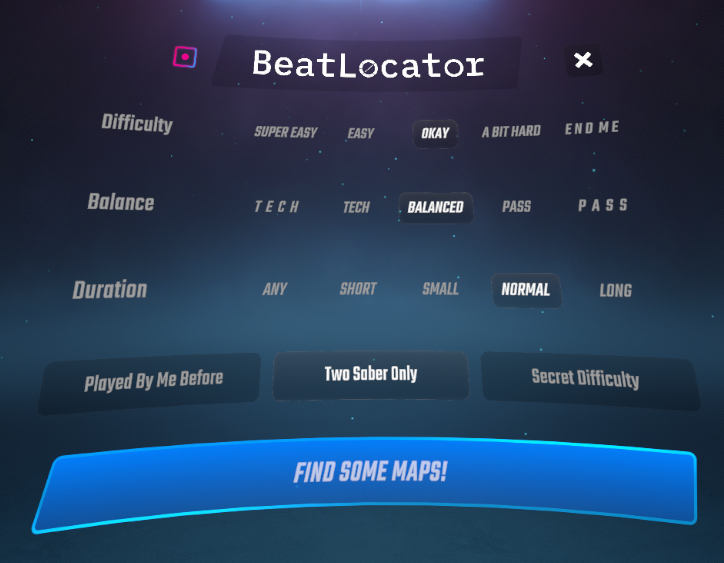
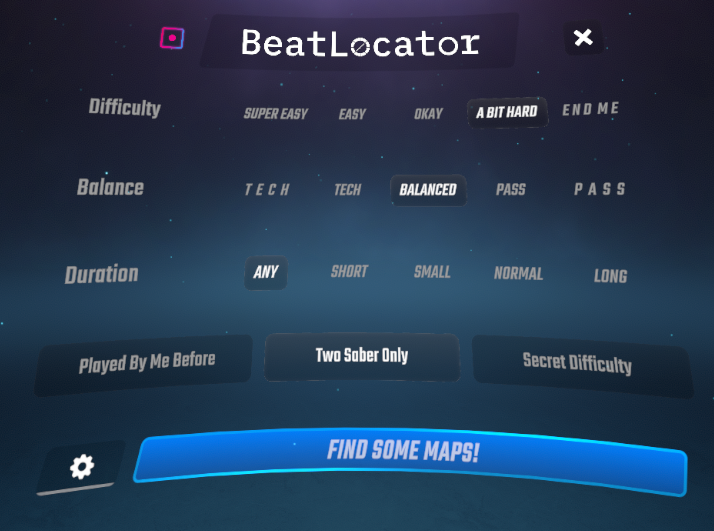
Prepare v0.1.1 release documentation and metadata

diff --git a/BeatLocator/Menu/Roulette/RouletteAnimationViewController.cs b/BeatLocator/Menu/Roulette/RouletteAnimationViewController.cs
@@ -853,7 +853,7 @@ public sealed class RouletteAnimationViewController : BSMLAutomaticViewControlle
     {
         using var downloadHandler = new DownloadHandlerTexture();
         using var request = UnityWebRequest.Get(coverUrl);
-        request.SetRequestHeader("User-Agent", "BeatLocator/0.1.0");
+        request.SetRequestHeader("User-Agent", Plugin.UserAgent);
         request.timeout = CoverRequestTimeoutSeconds;
         request.downloadHandler = downloadHandler;
         request.disposeDownloadHandlerOnDispose = false;
@@ -1395,7 +1395,7 @@ public sealed class RouletteAnimationViewController : BSMLAutomaticViewControlle
                          ?? throw new InvalidOperationException(
                              "The ranking service did not provide a valid map hash for preview playback.");
         using var request = UnityWebRequestMultimedia.GetAudioClip(previewUrl, AudioType.MPEG);
-        request.SetRequestHeader("User-Agent", "BeatLocator/0.1.0");
+        request.SetRequestHeader("User-Agent", Plugin.UserAgent);
         var operation = request.SendWebRequest();
 
         while (!operation.isDone)

diff --git a/BeatLocator/WebUtils/SSWebUtil.cs b/BeatLocator/WebUtils/SSWebUtil.cs
@@ -1030,7 +1030,7 @@ internal static class SSWebUtil
     private static HttpClient CreateHttpClient()
     {
         var client = new HttpClient();
-        client.DefaultRequestHeaders.TryAddWithoutValidation("User-Agent", "BeatLocator/0.1.0");
+        client.DefaultRequestHeaders.TryAddWithoutValidation("User-Agent", Plugin.UserAgent);
         client.DefaultRequestHeaders.TryAddWithoutValidation("Accept", "application/json");
         return client;
     }

diff --git a/BeatLocator/Plugin.cs b/BeatLocator/Plugin.cs
@@ -19,6 +19,8 @@ internal class Plugin
     private const string HarmonyId = "com.kalbuus.beatlocator";
 
     internal static IpaLogger Log { get; private set; } = null!;
+    internal static string UserAgent { get; } =
+        $"BeatLocator/{typeof(Plugin).Assembly.GetName().Version.ToString(3)}";
 
     // Methods with [Init] are called when the plugin is first loaded by IPA.
     // All the parameters are provided by IPA and are optional.

diff --git a/algorithm.md b/algorithm.md
@@ -1,6 +1,6 @@
 # BeatLocator Recommendation Algorithm
 
-This document describes how BeatLocator currently turns a player's ranked score history into a single map and difficulty recommendation. It covers the recommendation engine only. Map download, launch, roulette presentation, and post-level PP tracking are separate systems.
+This document describes how BeatLocator v0.1.1 turns a player's ranked score history into a single map and difficulty recommendation. It covers BeatLeader and ScoreSaber. Map download, launch, roulette presentation, and post-level PP tracking are separate systems.
 
 The shared implementation lives in
 [`RecommendationEngine`](BeatLocator/EvaluationManagers/RecommendationEngine.cs).
@@ -17,7 +17,7 @@ For each ranking provider, BeatLocator:
 1. Loads bounded recent and top ranked results, with a short provider cache.
 2. Builds a player-specific relationship between map stars and achieved accuracy.
 3. Converts that model into five difficulty targets.
-4. Requests ranked candidates around the selected target.
+4. Requests ranked candidates around the selected target, or samples a challenge catalogue for BeatLeader `END ME`.
 5. Applies provider and user filters.
 6. Scores every eligible map difficulty.
 7. Selects one difficulty using weighted random selection.
@@ -30,10 +30,7 @@ it does not perform another random selection.
 
 The pure estimator lives in
 [`PlayerSkillEstimator`](BeatLocator/EvaluationManagers/PlayerSkillEstimator.cs).
-Its formulas, normalization rules, live updates and runtime checks are detailed in
-[`stable-skill-recommendations.md`](docs/stable-skill-recommendations.md).
-
-BeatLeader loads 100 recent and 100 top-PP ranked scores, deduplicated by score ID.
+BeatLeader loads up to 100 recent and 100 top-PP ranked scores, deduplicated by score ID.
 ScoreSaber scans up to three recent pages and, when more history exists, up to
 three top pages, retaining ranked CLEAR results. Original score timestamps are
 preserved. Provider caches expire after two minutes and are isolated by player.
@@ -43,54 +40,94 @@ from `difficulty.modifiersRating`, together with raw accuracy. Unsupported modif
 and missing speed ratings are excluded. Candidates also account for the active
 BeatLeader speed setting, using actual API ratings for local eligibility checks.
 
-Recency weights multiply decay in elapsed days and number of newer observations:
+### History and accuracy normalization
+
+The estimator retains up to 240 timestamped observations, ordered newest first.
+Failed attempts, unsupported modifiers and invalid ratings or accuracy values
+are excluded. A play must have a usable star rating and accuracy above zero and
+at most one. Speed-modified results require the corresponding actual ratings;
+the model does not approximate them using a PP multiplier.
+
+Recency weights multiply decay in elapsed days behind the newest observation
+and number of newer observations:
 
 ```text
 weight = 0.5 ^ (daysBehindNewest / 45) * 0.5 ^ (sortedIndex / 60)
 ```
 
-Weights below 0.001 are discarded. A bounded, regularized negative accuracy
-slope translates each play into capability at a player-specific reference accuracy (80-90%).
-Sparse, flat or positive-slope profiles use a conservative fallback slope, so
-one valid ranked result is sufficient. Ordinary difficulty uses a weighted history
-mean, allowing at most 0.75 stars of positive accuracy reserve per result. Hard
-challenges and component budgets use up to 60 comparable results. Fitted slope
-influence is limited to 35%; a short session does not erase established skill.
+Weights below 0.001 are discarded. There is no fixed skill penalty simply for
+not playing for 30 days. Older evidence loses influence relative to newer plays.
+
+Reference accuracy is the recency-weighted mean accuracy plus two percentage
+points, clamped to 80-90%. The model fits a negative slope between stars and
+logit accuracy, using `logit(a) = ln(a / (1 - a))`. Accuracy is clamped to
+0.01-0.9995 for this calculation.
+
+The default slope is -0.35. Fitting requires at least five comparable results
+and enough star variance. Flat, positive or otherwise unusable slopes use the
+default. Otherwise, fitted influence is `min(0.35, sampleCount / 100)` and the
+regularized slope is clamped to -0.8 through -0.15.
+
+Each result estimates capability at reference accuracy:
+
+```text
+reserve = (logit(accuracy) - logit(referenceAccuracy)) / -slope
+reserve = clamp(reserve, -min(4, stars * 0.65), min(2.5, stars * 0.45))
+capability = clamp(stars + reserve, 0.1, 25)
+```
+
+Ordinary difficulty uses a recency-weighted mean of
+`stars + min(0.75, capability - stars)`. This limits inferred positive accuracy
+reserve to 0.75 stars per result and describes the player's usual range rather
+than an upper percentile of their best plays. The center is then capped at the
+demonstrated challenge boundary described below.
+
+Hard-challenge and component evidence uses up to 60 comparable results. Easy
+practice has reduced influence on this evidence: its weight is multiplied by
+`max(0.01, min(1, stars / anchor) ^ 3)`, where `anchor` is the weighted 90th
+percentile of demonstrated stars. Ordinary difficulty keeps the original
+recency weights. One valid comparable result is sufficient for a fallback profile.
 
 ## Difficulty Presets
 
-SUPER EASY/EASY/OKAY/A BIT HARD use player-specific accuracy anchors around the
-ordinary history center. Reference accuracy is the weighted history mean plus
-two percentage points, bounded to 80-90%.
-Comfort and A BIT HARD are bounded by recent hard-clear evidence.
-END ME uses a separate recent challenge boundary, with only a small accuracy
-reserve and a bounded step for Barely Possible/Actually Impossible. It does not
-extrapolate toward 80%/70% accuracy.
+The first four presets use accuracy anchors around the ordinary history center:
 
-BeatLeader END ME selects from sampled real candidates, accounting for component
-suitability and user filters. Catalogue saturation adjusts selection without
-changing estimated skill. Both modes may converge when the available challenge
-pool is tiny. See [experimental-challenge-model.md](docs/experimental-challenge-model.md)
-for formulas, sampling limits, offline results and runtime validation needs.
-ScoreSaber still uses its bounded star-window search.
+| Preset | Accuracy anchor |
+|---|---|
+| `SUPER EASY` | Reference + 7 percentage points, at most 97% |
+| `EASY` | Reference + 4 percentage points, at most 94% |
+| `OKAY` | Reference accuracy |
+| `A BIT HARD` | Reference - 5 percentage points |
 
-Component budgets constrain unsupported acc/pass/tech challenges in BeatLeader.
-Shared stars and sparse-profile fallbacks remain separate for each provider.
+The star offset is `(logit(anchor) - logit(referenceAccuracy)) / slope`.
+For `SUPER EASY`, its magnitude is limited to `min(3, max(0.12, center * 0.5))`.
+The other ordinary presets use `min(1.75, max(0.12, center * 0.25))`.
+`A BIT HARD` is also capped near demonstrated hard-clear capability.
+All final targets are clamped to 0.1-25 stars.
 
-## Immediate Updates
+`END ME` uses a separate weighted 85th-percentile boundary from recent comparable
+clears with at least 70% accuracy. Each clear may contribute a positive accuracy
+reserve of at most `min(0.75, stars * 0.15)`. With no qualifying hard clears, the
+boundary falls back to the ordinary center. `END ME` starts at the greater of
+the center and this boundary; it does not extrapolate a regression toward 80%
+or 70% accuracy.
 
-Completed roulette clears are appended to result history before PP upload,
-including NonPB clears. The same estimator recalculates the accumulated history,
-without separate per-play form adjustments. Failed attempts, Quit, Restart,
-practice, invalidation and unsupported modifiers are excluded.
+`Barely Possible` adds `min(0.75, max(0.06, boundary * 0.1))` stars.
+`Actually Impossible` starts with `min(1.5, max(0.06, boundary * 0.2))` and applies
+an additional proportional stretch for boundaries below eight stars:
 
-Local observations survive API refresh without double-counting an uploaded PB.
-They are kept in memory for the current process. Immediate learning currently
-covers roulette attempts; other provider PBs arrive on the next profile refresh.
+```text
+stretch = 0.2 + 0.2 * clamp((8 - boundary) / 3, 0, 1)
+step = max(step, min(1.5, boundary * 0.2) + boundary * (stretch - 0.2))
+```
+
+BeatLeader selects `END ME` from sampled real candidates as described below.
+ScoreSaber uses the same target estimator with its bounded star-window search.
+Profiles and sparse-history fallbacks remain separate for each provider.
 
 ## Candidate Search
 
-Every search begins at the selected target with a requested `+-0.5` star window, reduced for weak players. If the provider returns maps but no eligible difficulty can be selected, the shared engine expands the window in 0.5-star steps:
+The first four BeatLeader presets and all ScoreSaber presets begin at the selected target with a requested `+-0.5` star window, reduced for weak players. If the provider returns maps but no eligible difficulty can be selected, the shared engine expands the window in 0.5-star steps:
 
 ```text
 +-0.5 -> +-1.0 -> +-1.5 -> +-2.0
@@ -102,11 +139,36 @@ The search expands at most `min(2, max(0.15, target * 0.3))` stars from the calc
 
 BeatLeader filters ranked maps by the current star range, played state, mode, and duration through its maps API. For a given filter query, BeatLocator keeps a page cursor and can inspect up to two provider pages at each star window when the first page has no selectable candidate.
 
-The provider sort changes with the selected difficulty preset:
+For ordinary presets, the provider sort changes with the selected difficulty:
 
 - `SUPER EASY`: stars ascending;
-- `END ME`: stars descending;
 - middle presets: play count descending.
+
+### BeatLeader END ME Catalogue
+
+`END ME` samples up to two pages sorted by descending stars. Its effective-star
+range starts at the ordinary history center and ends at
+`desiredTarget + min(2, max(0.15, desiredTarget * 0.3))`, capped at 25 stars.
+Duration, played state, characteristic, style, active speed, component
+suitability and session history still restrict eligibility. This is a bounded
+sample, not a scan of every ranked map.
+
+If the desired target exceeds the eligible sample's ceiling, `Actually Impossible`
+targets that ceiling. `Barely Possible` uses the candidate at index
+`floor((candidateCount - 1) * 0.8)` in star order. A very small pool can make the
+two settings converge. These catalogue adjustments do not lower stored skill.
+
+The target is then snapped to the nearest eligible star value. Only candidates
+within half of `bandwidth = min(0.35, max(0.06, target * 0.04))` participate.
+Their style/component weights receive an additional proximity factor:
+
+```text
+challengeWeight = candidateWeight / (1 + abs(candidateStars - target) / bandwidth)
+```
+
+Component suitability is evaluated at each candidate's actual effective stars.
+The engine returns an error if the challenge pool is empty instead of silently
+falling back to an easy map.
 
 ### ScoreSaber Candidate Sampling
 
@@ -190,8 +252,25 @@ For a style value `s`, the five balance presets use these weights:
 If the style weight is zero, the difficulty is excluded. Otherwise:
 
 ```text
-BeatLeaderWeight = 0.6 * styleWeight + 0.4 * difficultyScore
+BeatLeaderWeight = (0.6 * styleWeight + 0.4 * difficultyScore) * profileSuitability
 ```
+
+### BeatLeader Component Suitability
+
+Acc, pass and tech budgets are weighted means of the corresponding ratings from
+up to 60 comparable results. Each observed rating is scaled by
+`clamp(capability / stars, 0.6, 1.3)`. A component needs at least three usable
+observations; otherwise that component does not restrict candidates.
+
+For a candidate, `scale = max(0.5, targetStars / center)` and each component ratio
+is `candidateRating / (componentBudget * scale)`. Suitability starts at 1:
+
+- Any known component ratio above 1.6 rejects the candidate.
+- Pass and tech ratios above 1.1 multiply suitability by `(1.6 - ratio) / 0.5`.
+- Acc ratios above 1.15 multiply suitability by `(1.6 - ratio) / 0.45`.
+
+This reduces the chance that a strong accuracy profile receives an unsupported
+pass or tech challenge merely because the overall star rating is close enough.
 
 ### ScoreSaber Score
 

diff --git a/README.md b/README.md
@@ -77,9 +77,11 @@ Currently, support for versions 1.42+ or standalone is not planned.
 
 ## Recommendation Engine
 
-BeatLocator analyzes up to 100 ranked results to build a player-specific difficulty range. It filters available ranked maps using the selected settings and makes a weighted recommendation near the chosen difficulty target. 
+BeatLocator combines recent and top ranked results to estimate your usual difficulty range. The model uses achieved accuracy and gives newer results more weight, while limiting how much an isolated strong result can raise ordinary recommendations.
 
-BeatLeader recommendations also account for the selected Tech/Pass balance, while ScoreSaber recommendations use overall star difficulty.
+The first four difficulty presets follow this usual range. `END ME` uses a separate boundary based on demonstrated hard clears. BeatLeader selects challenges from sampled eligible maps, so the result also depends on the available catalogue and your filters.
+
+BeatLeader recommendations account for the selected Tech/Pass balance and your demonstrated acc/pass/tech capabilities. Speed-modified results and candidates use the actual SS/FS/SF ratings when available. ScoreSaber recommendations use overall star difficulty.
 
 [Read the full recommendation algorithm here](algorithm.md)
 
@@ -109,7 +111,7 @@ BeatLeader-only authenticated requests are routed through the installed BeatLead
 
 ## Building from Source
 
-If you want to contibute to the mod, you have to build it on your machine. If you just want to play with it, head over to [Releases](https://github.com/kalbuus/BeatLocator/releases/)
+If you want to contribute to the mod, you have to build it on your machine. If you just want to play with it, head over to [Releases](https://github.com/kalbuus/BeatLocator/releases/)
 
 ### Requirements
 
